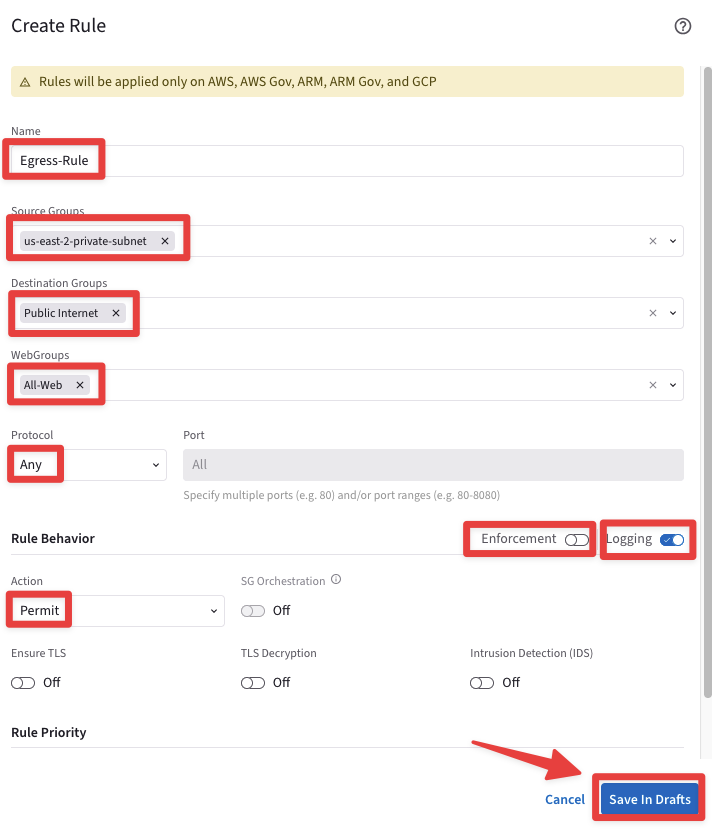
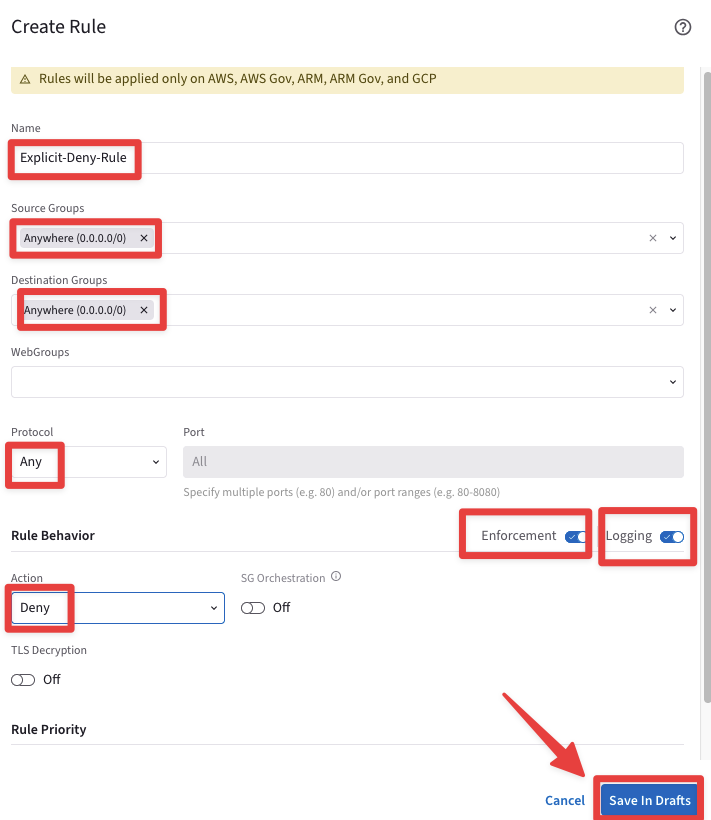
update for pro

diff --git a/ace_pro/docs/lab10.md b/ace_pro/docs/lab10.md
@@ -245,14 +245,52 @@ align: center
 Delete the Greenfield-Rule
 ```
 
-- Repeat the same action for both, the `"Inspection-Rule"` and the `"Egress-Rule"`:
+- Repeat the same action for the `"Inspection-Rule"` .
 
 ```{figure} images/lab10-commit.png
 ---
 height: 300px
 align: center
 ---
-Commit
+Delete the Inspection-Rule
+```
+
+```{note}
+The **Egress-Rule** is configured with the enforcement=off, therefore it will nto affecvt the Data Path!
+```
+
+- Now click on `"+ Rule"` and create an ad-hoc **Explicit-Deny-Rule**, with the following parameters:
+
+Insert the following parameters
+
+- **Name**: <span style='color:#479608'>Explicit-Deny-Rule</span>
+- **Source Smartgroups**: <span style='color:#479608'>Anywhere (0.0.0.0/0)</span>
+- **Destination Smartgroups**: <span style='color:#479608'>Anywhere (0.0.0.0/0)</span>
+- **Protocol**: <span style='color:#479608'>Any</span>
+- **Enforcement**: <span style='color:#479608'>**On**</span>
+- **Logging**: <span style='color:#479608'>On</span>
+- **Action**: <span style='color:#479608'>**Deny**</span>
+
+Do not forget to click on **Save In Drafts**.
+
+```{figure} images/lab6-new.png
+---
+align: center
+---
+Saving the new Rule
+```
+
+Now click on **Commit**.
+
+```{figure} images/lab6-new234.png
+---
+align: center
+---
+Committing the new Rule
+```
+
+```{important}
+The ad-hoc `Explicit-Deny-Rule` can be configured with Logging=**On**!
 ```
 
 ```{warning}
@@ -287,8 +325,6 @@ align: center
 ---
 Create Rule
 ```
-
-At this point, there should be just one uncommitted rule at the very top, as depicted below.
 
 Click on **Commit**.
 
